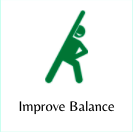
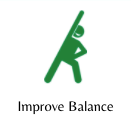
New Images

diff --git a/App.js b/App.js
@@ -7,7 +7,6 @@ import { Card, ListItem, Button, Icon } from 'react-native-elements';
 export default function App() {
   return (
     <View style={styles.container}>
-      <Text>Open up App.js to start working on your app!</Text>
       <Bar />
       <Icons />
       <Footer />
@@ -40,39 +39,32 @@ function Icons() {
   return (
     <View style={styles.icons}>
       <Card style={styles.card}>
-        <Card.Divider>
           <Image source={require('./image/ImproveBalance.png')}></Image>
-        </Card.Divider>
       </Card>
 
       <Card style={styles.card}>
-        <Card.Divider>
           <Image source={require('./image/LearnAboutBalance.png')}></Image>
-        </Card.Divider>
+
       </Card>
 
       <Card style={styles.card}>
-        <Card.Divider>
           <Image source={require('./image/Profile.png')}></Image>
-        </Card.Divider>
+
       </Card>
 
       <Card style={styles.card}>
-        <Card.Divider>
           <Image source={require('./image/StatsandImprovement.png')}></Image>
-        </Card.Divider>
+
       </Card>
 
       <Card style={styles.card}>
-        <Card.Divider>
           <Image source={require('./image/STEDITimer.png')}></Image>
-        </Card.Divider>
+
       </Card>
 
       <Card style={styles.card}>
-        <Card.Divider>
           <Image source={require('./image/Tutorial.png')}></Image>
-        </Card.Divider>
+
       </Card>
     </View>
   );
@@ -100,7 +92,7 @@ const styles = StyleSheet.create({
     flex: 1,
     backgroundColor: 'green',
     alignItems: 'center',
-    justifyContent: 'center',
+    justifyContent: 'space-evenly',
   },
 
   icons: {
